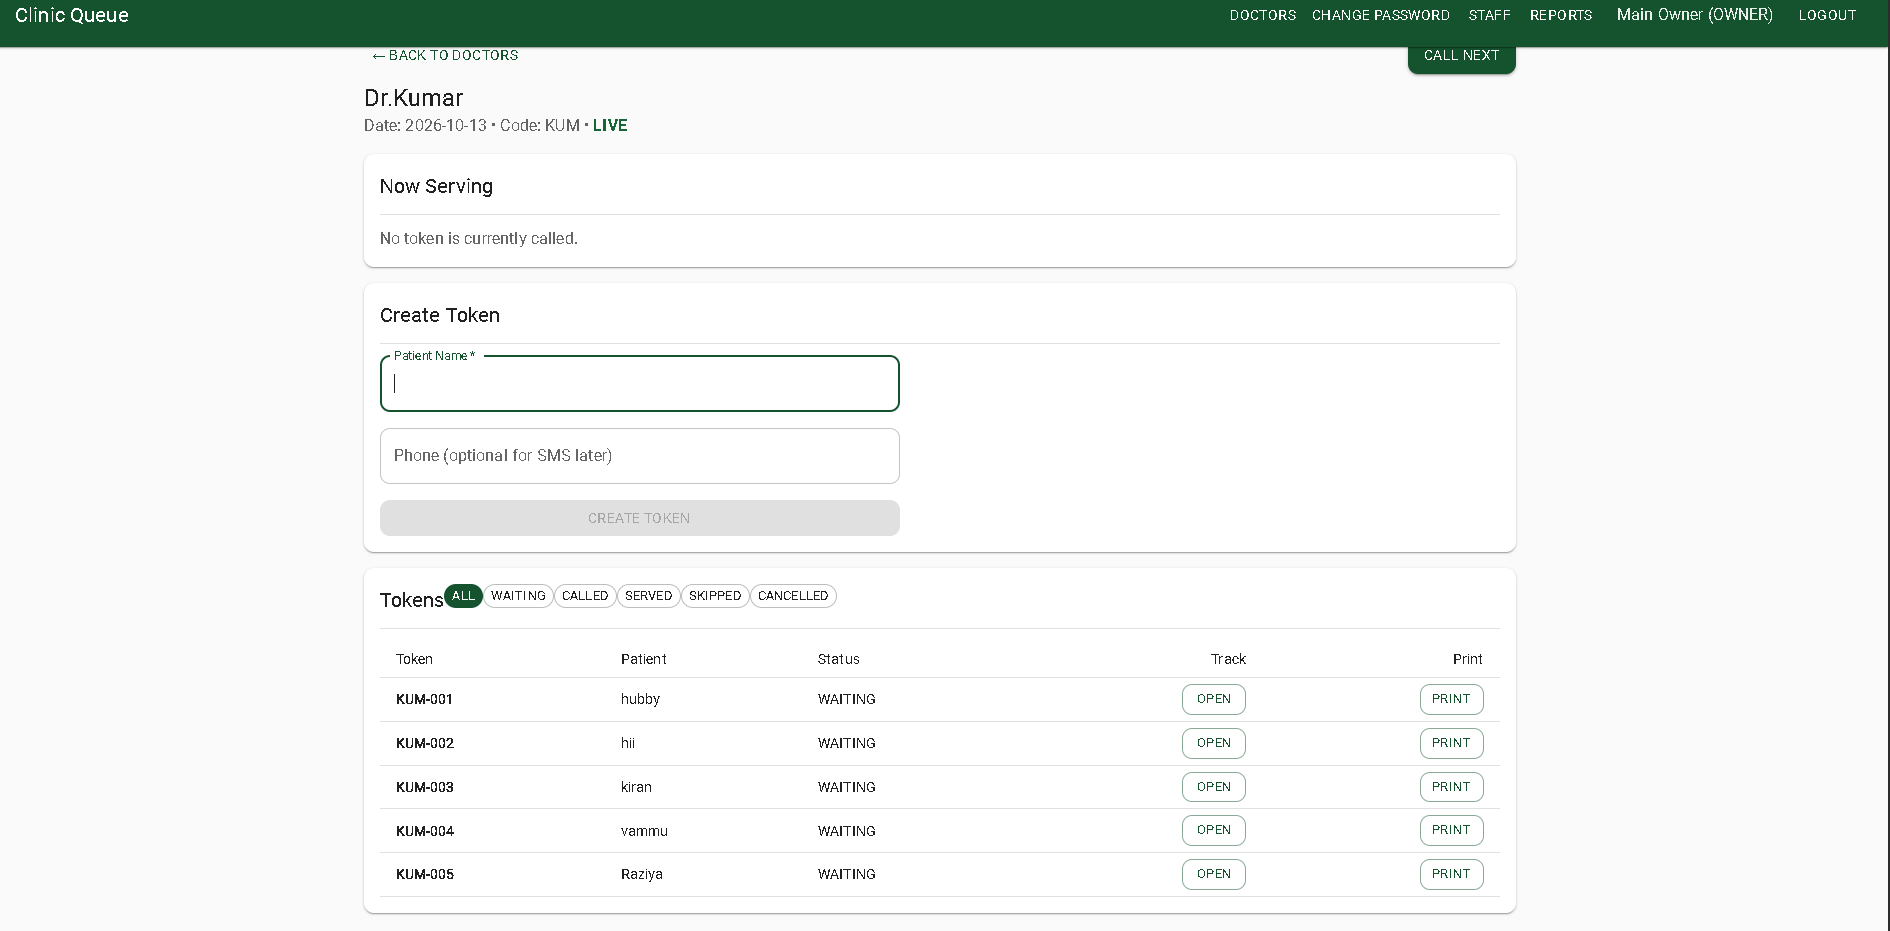
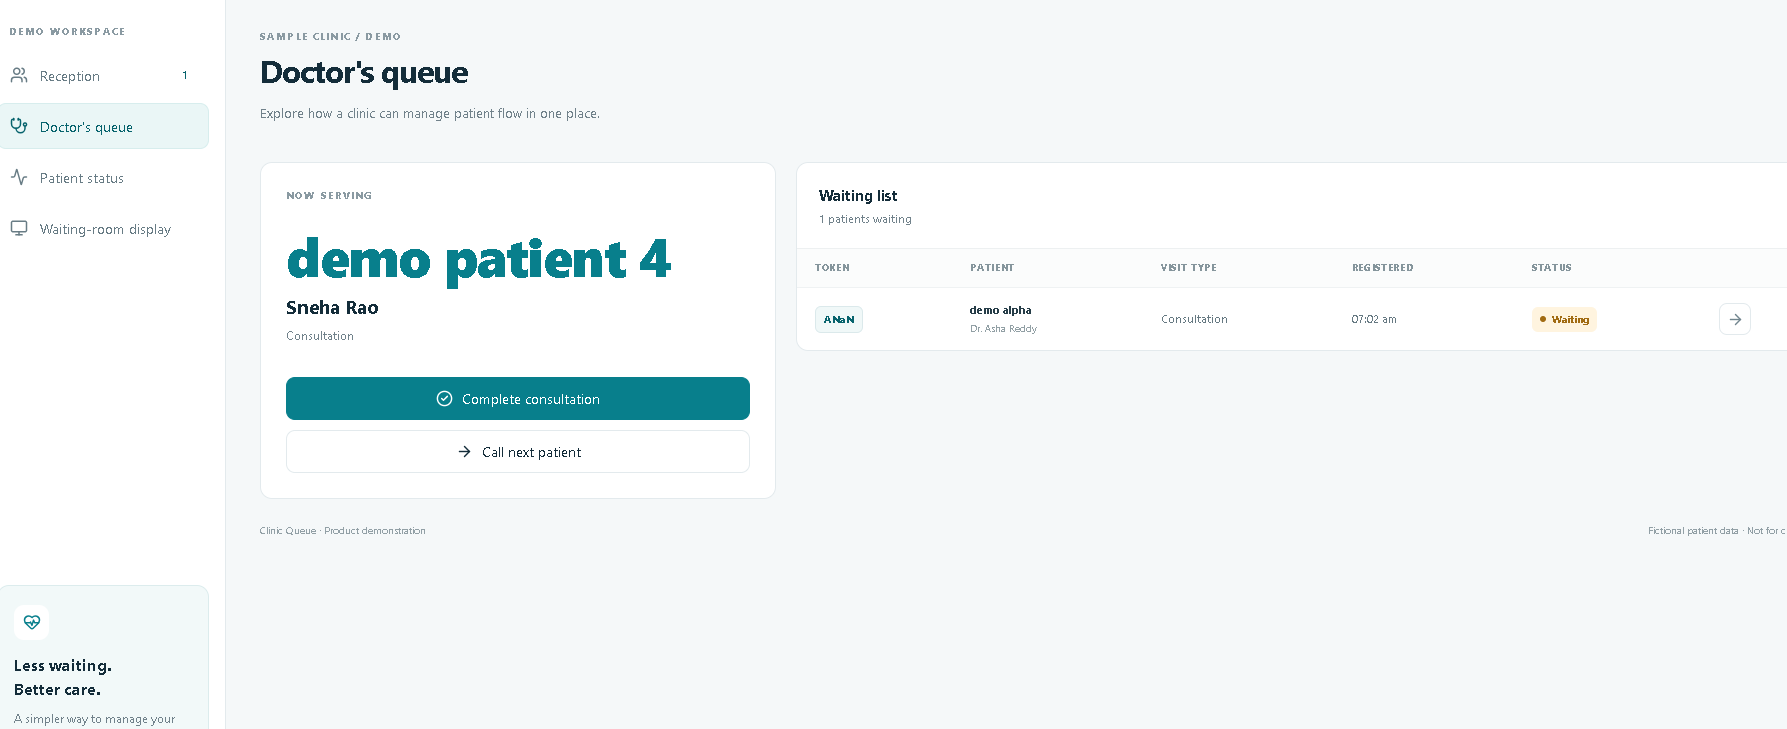
Update contact details and clinic demo screenshots

diff --git a/src/App.jsx b/src/App.jsx
@@ -44,8 +44,8 @@ function App() {
       `Name: ${form.name}\nBusiness: ${form.business || "Not provided"}\nInterested in: ${form.service}\n\nProject details:\n${form.message}`
     );
     // Replace this demo address with your real business email before publishing.
-    window.location.href = `mailto:hello@example.com?subject=${subject}&body=${body}`;
-    setNotice("Your email app should open with the enquiry prepared. Add your real business email before publishing.");
+    window.location.href = `mailto:vamraan@gmail.com?subject=${subject}&body=${body}`;
+    setNotice("Your email app should open with the enquiry prepared. If it doesn't, check your email app settings.");
   }
 
   return (
@@ -194,11 +194,27 @@ function App() {
               <h2>Have a project<br />in mind?</h2>
               <p>Tell us a little about your business or the problem you want to solve. We'll take it from there.</p>
               <div className="contact-detail"><div className="contact-detail-icon"><MapPin size={18} /></div><div><span>LOCAL FOCUS</span><strong>Warangal · Hanamkonda · Kazipet</strong></div></div>
-              <div className="contact-detail"><div className="contact-detail-icon"><Mail size={18} /></div><div><span>EMAIL</span><strong>hello@example.com</strong><small>Demo address — replace before publishing</small></div></div>
+              <div className="contact-detail">
+  <div className="contact-detail-icon">
+    <Mail size={18} />
+  </div>
+  <div>
+    <span>EMAIL</span>
+    <strong>
+      <a href="mailto:vamraan@gmail.com">vamraan@gmail.com</a>
+    </strong>
+    <small>Contact us about your project</small>
+  </div>
+</div>
               <div className="social-links">
-                <a href="#contact" aria-label="Instagram placeholder" onClick={(e) => { e.preventDefault(); setNotice("Add your real Instagram profile link in src/App.jsx before publishing."); }}><span className="social-letter">ig</span></a>
-                <a href="#contact" aria-label="Facebook placeholder" onClick={(e) => { e.preventDefault(); setNotice("Add your real Facebook page link in src/App.jsx before publishing."); }}><span className="social-letter">f</span></a>
-                <a href="#contact" aria-label="WhatsApp placeholder" onClick={(e) => { e.preventDefault(); setNotice("Add your WhatsApp Business number in src/App.jsx before publishing."); }}><MessageCircle size={18} /></a>
+               <a
+  href="https://wa.me/919515926945"
+  target="_blank"
+  rel="noopener noreferrer"
+  aria-label="Chat with OneVision Digital on WhatsApp"
+>
+  <MessageCircle size={18} />
+</a>
               </div>
             </div>
             <form className="contact-form" onSubmit={submitEnquiry}>
